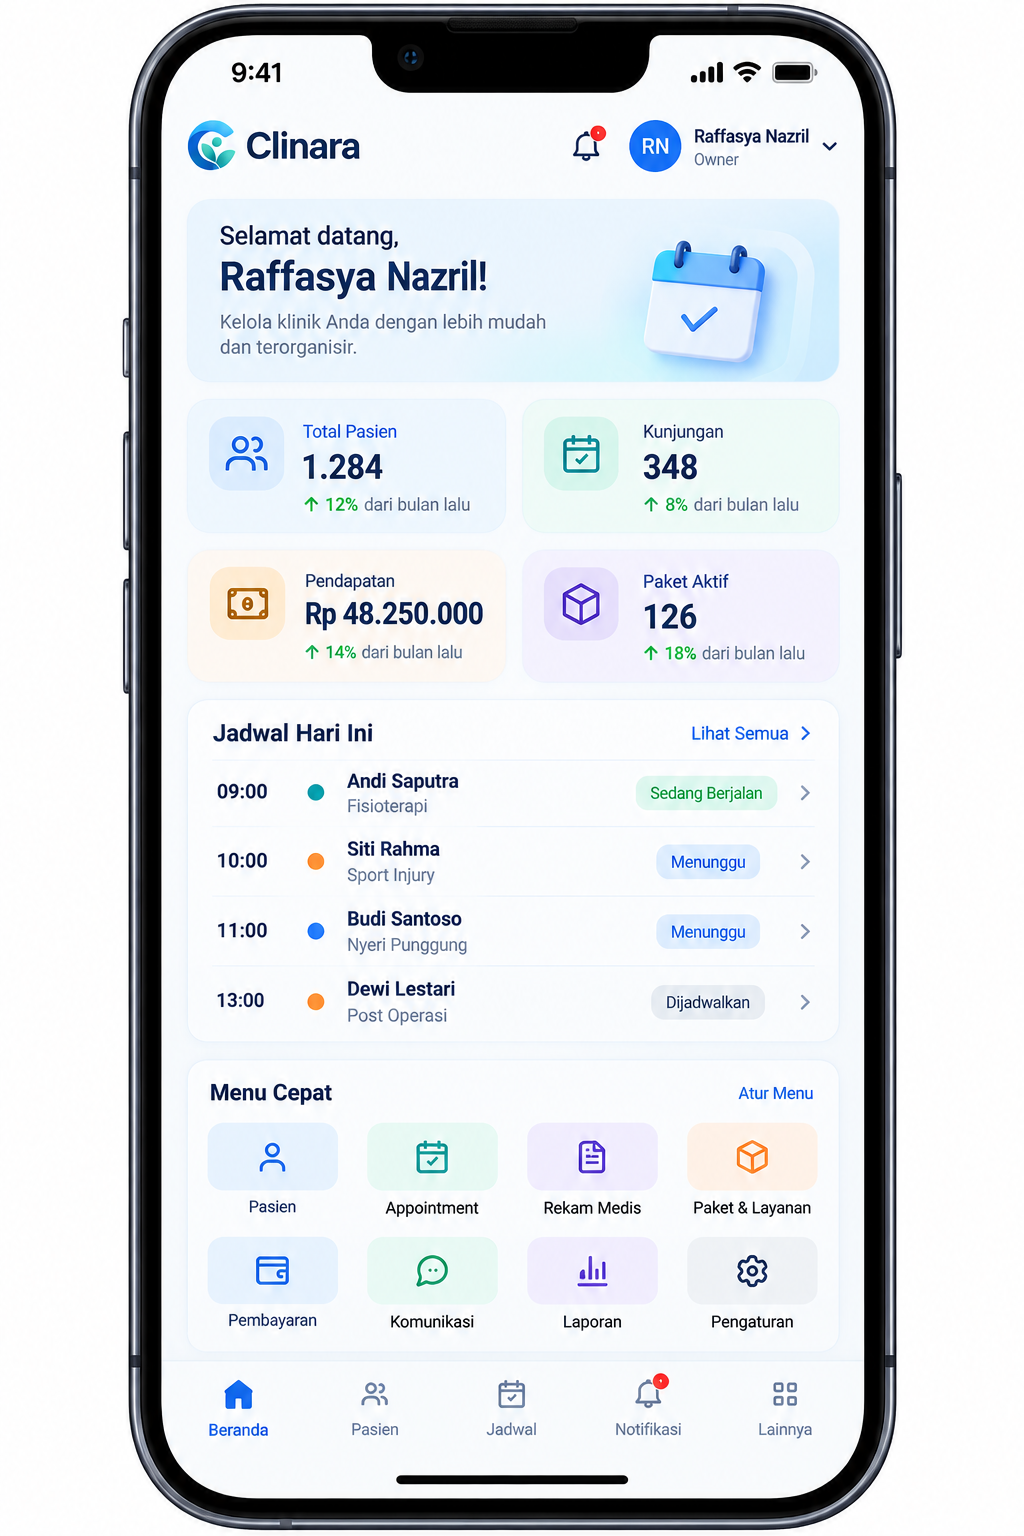
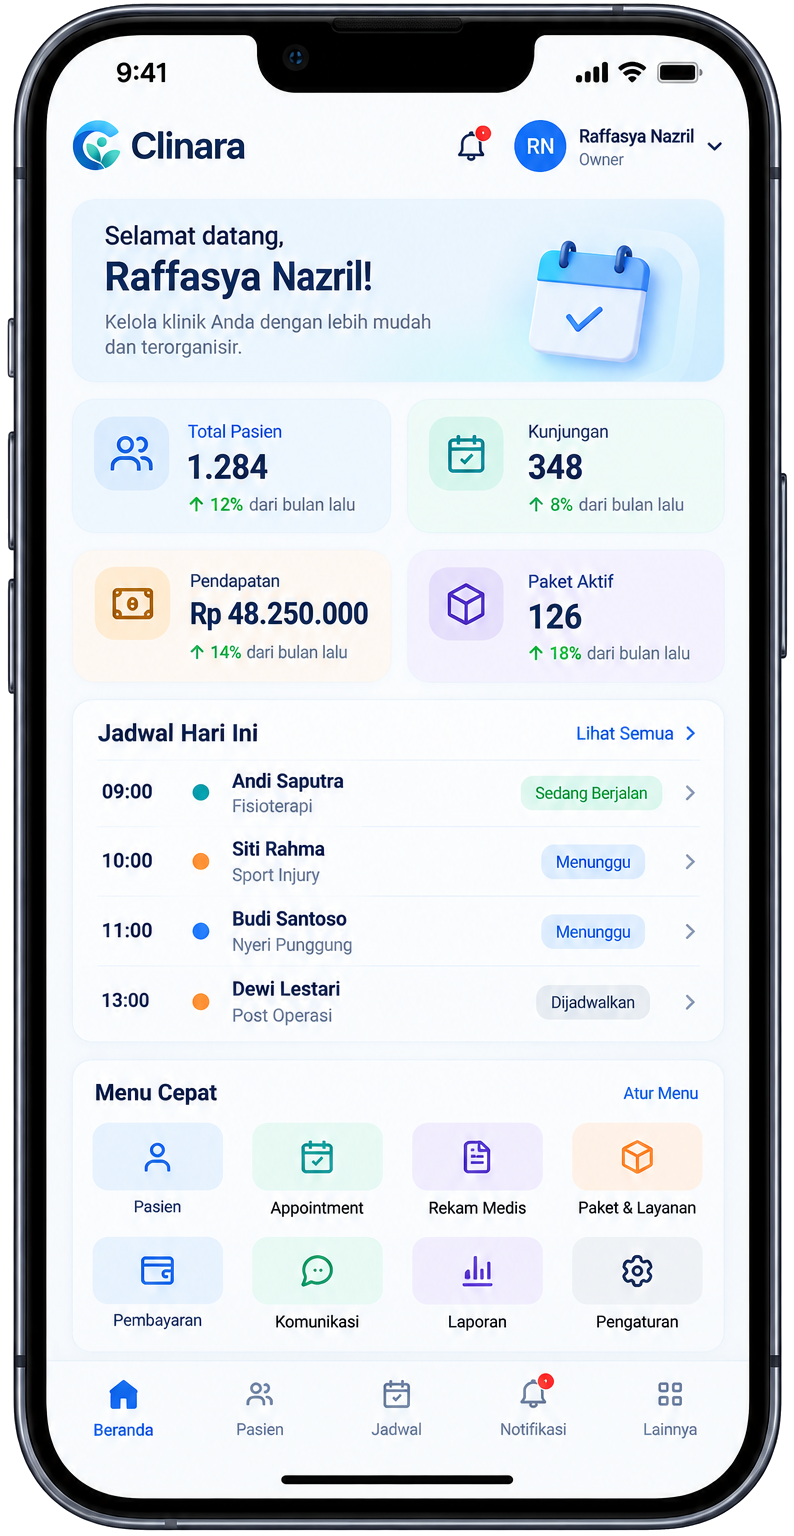
Fix white background around floating mobile app mockup in hero
The mobile screenshot had a wide white margin and square corners
around the phone bezel; cropped it tight to the device and made the
white outside the rounded bezel transparent so it floats over the
hero background instead of showing a white box.

Claude-Session: https://claude.ai/code/session_01WKbLF6KYDx3ixsfV93UNxe

diff --git a/src/pages/clinara/ClinaraLandingPage.jsx b/src/pages/clinara/ClinaraLandingPage.jsx
@@ -393,7 +393,7 @@ const ClinaraLandingPage = () => {
                     <img
                       src="/hero/clinara-hero-mobile.png"
                       alt="Tampilan aplikasi mobile Clinara"
-                      className="w-full h-auto block rounded-[22px] border border-white/70"
+                      className="w-full h-auto block"
                     />
                   </motion.div>
                 </motion.div>
